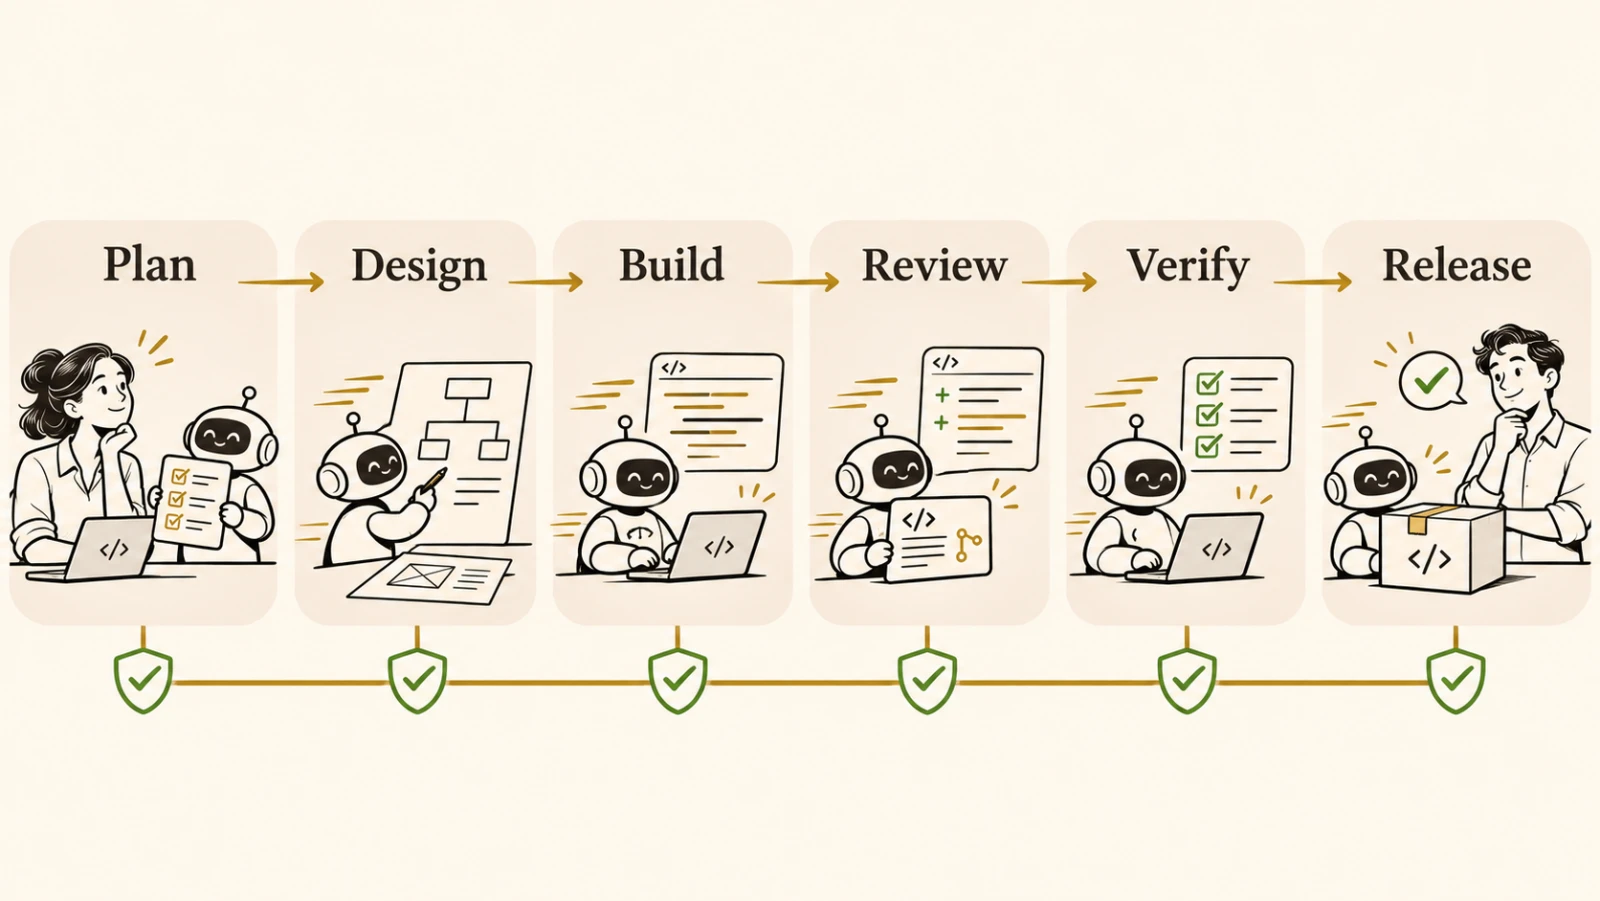
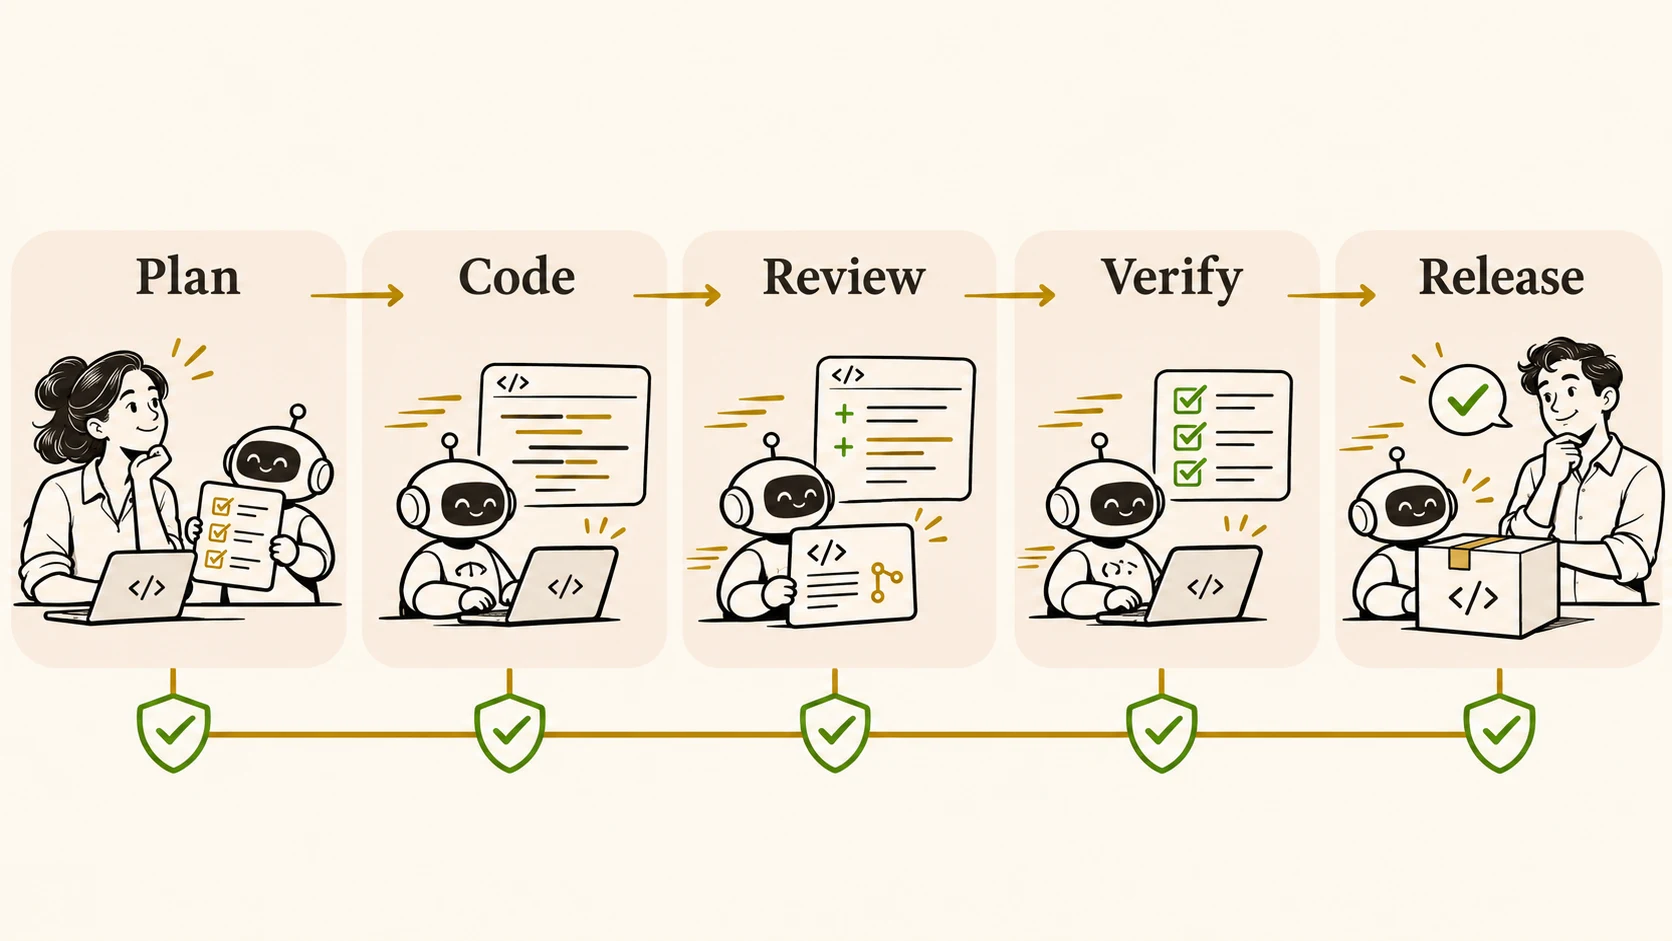
fix(slides): address review feedback

diff --git a/media/README.md b/media/README.md
@@ -11,21 +11,21 @@ and was retained.
 
 ## guardrails-workflow.webp
 
-The quality-gates practice workflow shows a Python change, Ruff command,
-pass/fail paths, precise F841 feedback, an agent correction, human review, and
-merge. The Python mark, Ruff wordmark, agent, reviewer, and Git branch icons
-make each step easy to scan.
+The quality-gates practice workflow shows an unused local variable inside a
+function, the Ruff command, precise F841 feedback, an agent correction, human
+review, and merge. The Python mark, Ruff wordmark, agent, reviewer, and Git
+branch icons make each step easy to scan.
 
 ```text
 Create a spacious 16:9 landscape diagram in the deck's ivory and warm-stone
 editorial style, with near-black ink, gold hairlines and arrows, serif stage
 headings, monospace code, and simple Python, Ruff, coding-agent, reviewer, and
-Git branch icons. Show four stages left to right: Agent change (example.py;
-greeting = "Hello!"; print("Hello!"), Ruff checks (ruff check example.py),
-Human review (print(greeting)), Merge (Reviewed fix). A pass arrow goes from
-Ruff to human review; a fail arrow goes to an F841 message saying the local
-variable 'greeting' is assigned but never used; a return arrow loops to Agent
-change. Keep text accurate, legible, and sparse. No title or slogan.
+Git branch icons. Show the workflow: Agent change (`def main():` then
+`greeting = "Hello!"`), Ruff checks (`ruff check example.py`), and an F841
+message saying the local variable 'greeting' is assigned but never used. A
+return arrow leads to a corrected agent change (`print(greeting)` inside
+`main()`), followed by a second Ruff check, pass, human review, and merge. Keep
+the code and error accurate, legible, and sparse. No title or slogan.
 ```
 
 ## sdlc-bottlenecks.webp
@@ -56,19 +56,21 @@ gradients, rounded cards, bright colours, logos, or watermark.
 
 ## bottleneck-examples.webp
 
-Three practical responses to queues in software delivery: replace a slow CI
-wait with Rust-based Python tools; use an LLM author/reviewer loop for large
-pull requests; and replace repeated manual behaviour checks with E2E tests.
-The labels name possible interventions, not guaranteed speedups.
+Three practical responses to queues in software delivery: use Rust-based
+Python tools for slow lint and type checks; split or stack large pull requests
+before an LLM author/reviewer loop; and replace repeated manual behaviour
+checks with E2E tests. The labels name possible interventions, not guaranteed
+speedups.
 
 ```text
 Create a three-panel 16:9 landscape presentation illustration in the deck's
 editorial style: flat ivory canvas, warm-stone panels, near-black pen-and-ink
 linework, restrained gold hairlines and arrows, serif headings, and legible
-labels. Panel one: a code-change queue and a clock labelled "Slow CI", followed
-by a friendly robot using Rust-based tools Ruff, uv, and ty. Panel two: a large
-pull request diff moving through a looping LLM Author and Reviewer workflow.
-Panel three: a person manually checking a web journey, then an E2E test
+labels. Panel one: a code-change queue and a clock labelled "Slow lint/type
+checks", followed by a friendly robot using Rust-based tools Ruff, uv, and ty.
+Panel two: a large pull request split or stacked into smaller changes before
+each enters a looping LLM Author and Reviewer workflow. Panel three: a person
+manually checking a web journey, then an E2E test
 automating the same journey to a passing result. Keep the panels balanced,
 text sparse and accurate, with generous whitespace. No overall title or footer.
 ```
@@ -79,8 +81,9 @@ The closing example shows a feature request flowing through coding, a pull
 request with UI screenshots and a red-and-green diff, automated quality gates,
 an independent review loop, and agent-led merge. A magnified inset makes the
 example's strict quality harness concrete and ends with an ellipsis to indicate
-additional checks. The slide notes explain that high-stakes work may keep human
-approval at key steps. It is based on the public chatbot-template repository.
+additional checks. The slide notes explain that repository owners set explicit
+risk boundaries for automatic merges and retain human review for higher-risk
+work. It is based on the public chatbot-template repository.
 
 ```text
 Create a polished 16:9 landscape editorial infographic for a software
@@ -121,10 +124,10 @@ or unrelated panels.
 
 ## sdlc-conclusion.webp
 
-The closing conclusion shows agent support across six SDLC stages, with a
+The closing conclusion shows agent support across five delivery stages, with a
 continuous quality rail and human direction at the beginning and judgement at
 release. It reinforces that strong engineering practices can speed up routine
-work across nearly the whole lifecycle while keeping quality standards intact.
+work while keeping quality standards intact.
 
 ```text
 Create a polished 16:9 landscape editorial illustration for the final
@@ -135,25 +138,23 @@ labels, simple elegant human and friendly robot figures, generous balanced
 whitespace. No dark-filled panels or boxes: panel backgrounds must remain
 light ivory or warm stone.
 
-Show a single clear left-to-right software lifecycle in six spacious stations,
-connected by one continuous gold flow line: “Plan”, “Design”, “Build”,
-“Review”, “Verify”, “Release”. Make the sequence feel brisk and fluid with
-subtle forward motion marks. At each station, a small coding-agent robot
-assists with routine work: organizing a plan, preparing a design sketch,
-writing code, preparing a pull request, running checks, and packaging a release.
-Include one calm human who sets direction at Plan and one who makes a final
-judgement at Release, so the story shows agent acceleration with human oversight
-where it matters.
+Show a single clear left-to-right software lifecycle in five spacious stations,
+connected by one continuous gold flow line: “Plan”, “Code”, “Review”, “Verify”,
+“Release”. Make the sequence feel brisk and fluid with subtle forward motion
+marks. At each station, a small coding-agent robot assists with routine work:
+organizing a plan, writing code, preparing a pull request, running checks, and
+packaging a release. Include one calm human who sets direction at Plan and one
+who makes a final judgement at Release, so the story shows agent acceleration
+with human oversight where it matters.
 
-Under the six stations, draw one straight, steady quality rail passing beneath
+Under the five stations, draw one straight, steady quality rail passing beneath
 every stage, with a small crisp green check or shield marker under each stage
 to show that the quality bar stays consistent from start to finish. Make this
 visual rail elegant and unmistakable, not a separate dark box or dashboard.
 The complete composition should make it clear that routine work moves faster
-across nearly the whole lifecycle while quality remains protected at every
-stage.
+while quality remains protected at every stage.
 
-Use only these six stage labels, spelled exactly as given; no other words,
+Use only these five stage labels, spelled exactly as given; no other words,
 title, subtitle, long explanatory text, footer, logo, gradient, or watermark.
 Ensure the image is balanced and legible when displayed at 880×495 pixels.
 ```
